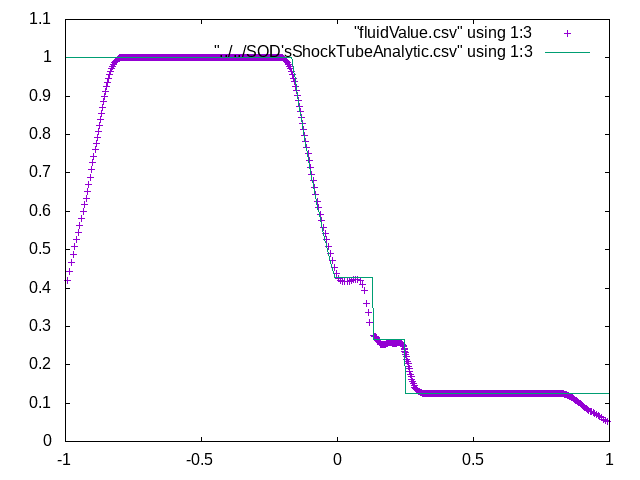
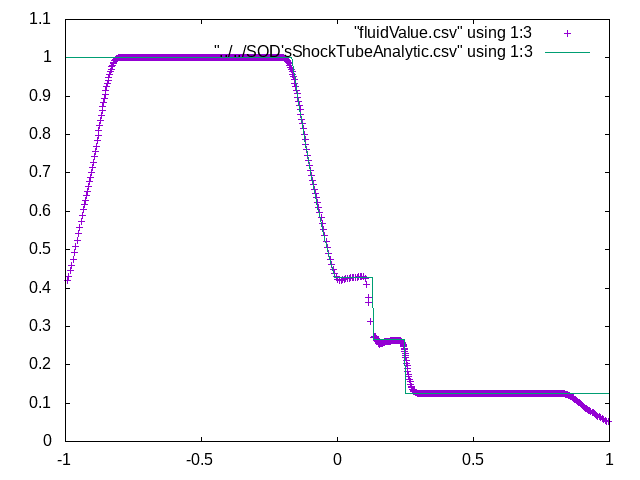
sph法での衝撃波管問題のパラメータ調整して実行しデータ取得

diff --git a/include/Advancer/FluidValueAdvancer.hpp b/include/Advancer/FluidValueAdvancer.hpp
@@ -4,7 +4,7 @@
 #include <PhysicsValue/SphDataWithGamma.hpp>
 #include <PhysicsValue/SphCoreData.hpp>
 #include <CalculatedResult/FluidResult.hpp>
-#include <CalculatedResult/CpiCoreResult.hpp>
+#include <PhysicsValue/RectangleGridData.hpp>
 #include <Advancer/VelocityVerlet.hpp>
 #include <Advancer/LeapFrog.hpp>
 #include <Utility/RiemanSolver.hpp>
@@ -268,7 +268,7 @@ namespace Godunov
     private:
         RiemanSolver riemanSolver;
     public:
-        void UpdateDensity_Momentum_Energy(const real* dr, const real dt,CoreGridData& data)
+        void UpdateDensity_Momentum_Energy(const real* dr, const real dt,RectangleGridData& data)
         {
         #pragma omp parallel
             {
@@ -276,7 +276,7 @@ namespace Godunov
                 real Flux_i_minusHalf[3];
                 real Flux_i_plusHalf[3];
         #pragma omp for
-                for(int i = 1;i<data.number-1;++i)
+                for(int i = 0;i<data.AllNum();++i)
                 {
                     riemanSolver.GetShockTubeAnswerAtZero(data.density[i-1],data.momentum[i-1][0]/data.density[i-1],(data.energy[i-1]-data.momentum[i-1][0]*data.momentum[i-1][0]/(2*data.density[i-1]))*(heatCapRatio-1)
                                                         ,data.density[i],data.momentum[i][0]/data.density[i],(data.energy[i]-data.momentum[i][0]*data.momentum[i][0]/(2*data.density[i]))*(heatCapRatio-1)
@@ -297,6 +297,8 @@ namespace Godunov
                     data.density[i] += -dt/dx * (Flux_i_plusHalf[0] - Flux_i_minusHalf[0]);
                     data.momentum[i][0] += -dt/dx * (Flux_i_plusHalf[1] - Flux_i_minusHalf[1]);
                     data.energy[i] += -dt/dx * (Flux_i_plusHalf[2] - Flux_i_minusHalf[2]);
+
+
                 }
             }
         }

diff --git a/include/Settings.hpp b/include/Settings.hpp
@@ -16,13 +16,13 @@ using real = double;
     #if defined(SphMethod)
         using real = double;
         constexpr short DIM = 1; //次元
-        constexpr int N = 600; //粒子数
+        constexpr int N = 800; //粒子数
         constexpr real ZERO = 1.0e-8; //絶対値がこれ以下の値は0とみなす
         constexpr real eta = 0.01; //0割りの回避のための定数
         constexpr real Ccfl = 0.1; 
 
         constexpr int number = N;
-        constexpr real h = 0.015; //固定長
+        constexpr real h = 0.01; //固定長
         constexpr real mass_coef = 300.0/N*(0.02/3); //密度をdensにするために必要な質量にかかる係数
         constexpr real heatCapRatio = 1.4; //気体の比熱
         constexpr real alpha = 1; //人口粘性の強さを決める係数

diff --git a/include/PhysicsValue/RectangleGridData.hpp b/include/PhysicsValue/RectangleGridData.hpp
@@ -13,4 +13,13 @@ struct RectangleGridData:public CoreGridData
         for(int d = 0;d<DIM;++d)
             number[d] = num[d];
     }
+
+    int AllNum()
+    {
+        int a = 0;
+        for(int d = 0;d<DIM;++d)
+            a += number[d];
+
+        return a;
+    }
 };

diff --git a/include/PhysicsValue/CoreGridData.hpp b/include/PhysicsValue/CoreGridData.hpp
@@ -8,6 +8,7 @@ struct CoreGridData
     real density[N];
     real momentum[N][DIM];
     real energy[N];
+    bool isStatic[N];
 
     real GetVelocity(int i, int dim) const
     {   

diff --git a/sample/ShockTube_ParticleSolve.cpp b/sample/ShockTube_ParticleSolve.cpp
@@ -1,6 +1,6 @@
 #define ShockTube1D
 #define SphMethod
-#define LeapFrogMethod
+#define VelocityVerletMethod
 #include <Settings.hpp>
 
 #include <iostream>
